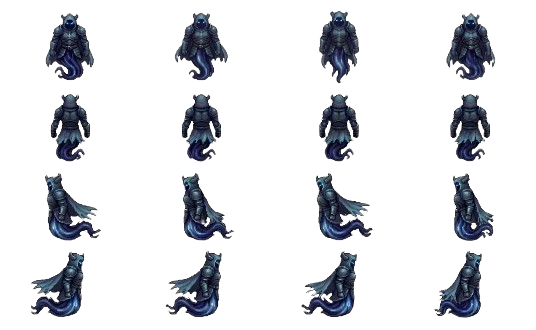
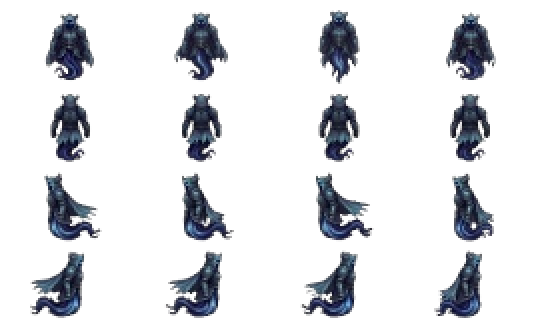
poprawki grafiki

diff --git a/game_render.cpp b/game_render.cpp
@@ -43,7 +43,6 @@ void Game::DrawEntities() {
     
     DrawTextureRec(playerSprite, sourceRec, destPos, playerTint);
 
-    // --- NOWE: inteligentne rysowanie wrogow z fallbackiem (zapasowym kółkiem) ---
     for(enemy e : enemies){
         // Sprawdzamy, czy dla tego typu wroga mamy już załadowaną grafikę
         if(hasEnemySprite[e.type]) {
@@ -57,13 +56,22 @@ void Game::DrawEntities() {
                 eFrameWidth,
                 eFrameHeight
             };
+            
+            float scale = 1.8f; //skala 
 
-            Vector2 eDestPos = { 
-                e.position.x - (eFrameWidth / 2), 
-                e.position.y - (eFrameHeight / 2) 
+            Rectangle eDestRec = {
+                e.position.x,
+                e.position.y,
+                eFrameWidth * scale,
+                eFrameHeight * scale
             };
 
-            DrawTextureRec(enemySprites[e.type], eSourceRec, eDestPos, WHITE);
+            // Środek rysowania (wyśrodkowanie na powiększonym hitboxie)
+            Vector2 origin = { (eFrameWidth * scale) / 2, (eFrameHeight * scale) / 2 };
+
+            // DrawTexturePro pozwala na płynne powiększanie
+            DrawTexturePro(enemySprites[e.type], eSourceRec, eDestRec, origin, 0.0f, WHITE);
+
         } else {
             // Jeśli nie ma grafiki, rysujemy stare kolorowe kółko
             Color enemyColor = PURPLE;

diff --git a/game_map.cpp b/game_map.cpp
@@ -109,7 +109,7 @@ void Game::CheckRoomTransitions() {
                     float speed = GetRandomValue(60, 120); 
                     int hp = GetRandomValue(3, 6); 
 
-                    enemies.push_back({{ex, ey}, speed, 20.0f, type, 2.0f, hp, 0, 0, 0, 0.0f, 0});
+                    enemies.push_back({{ex, ey}, speed, 35.0f, type, 2.0f, hp, 0, 0, 0, 0.0f, 0});
                 }
             
                 nextRoom.obstacles = obstacles;

diff --git a/game_entities.cpp b/game_entities.cpp
@@ -104,7 +104,6 @@ void Game::UpdateEnemies() {
             enemies[i].currentFrame++;    
             if (enemies[i].currentFrame >= 4) enemies[i].currentFrame = 0; 
         }
-        // -------------------------------------------------------
 
         if(length > 0) {
             dx = dx / length;
